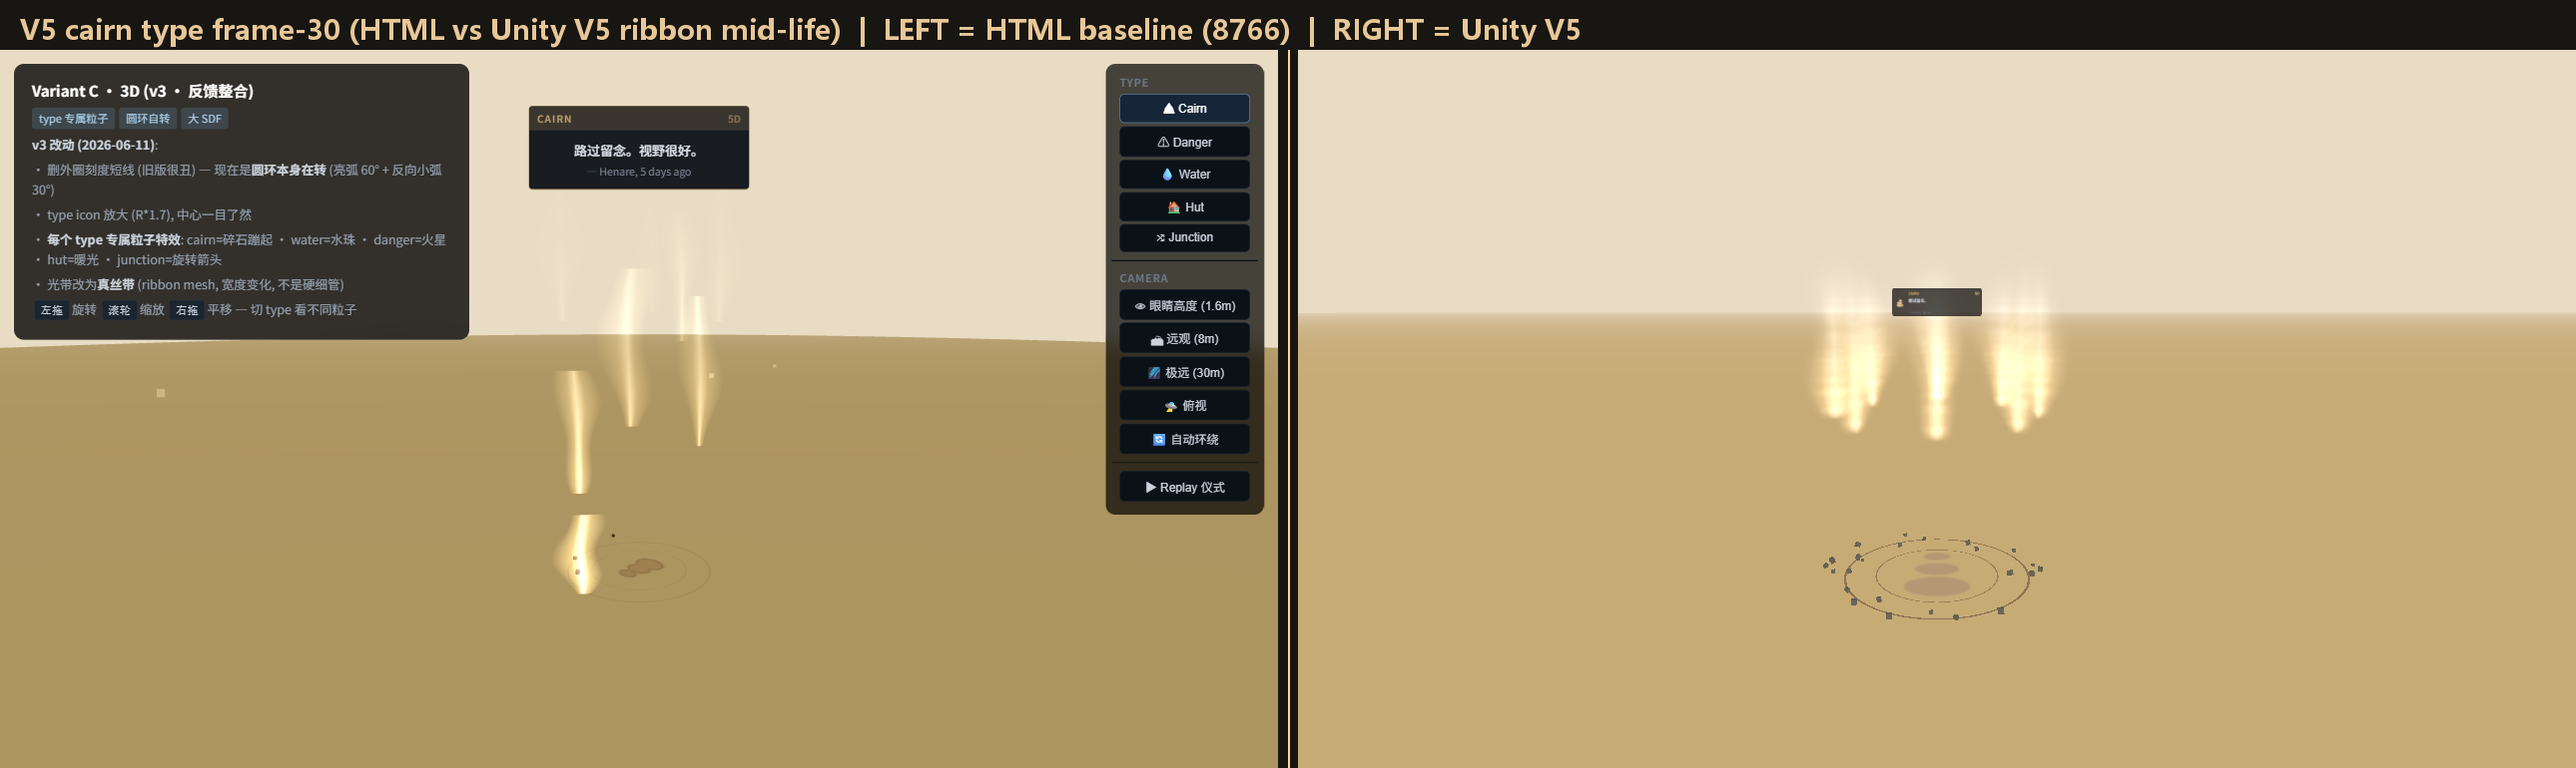
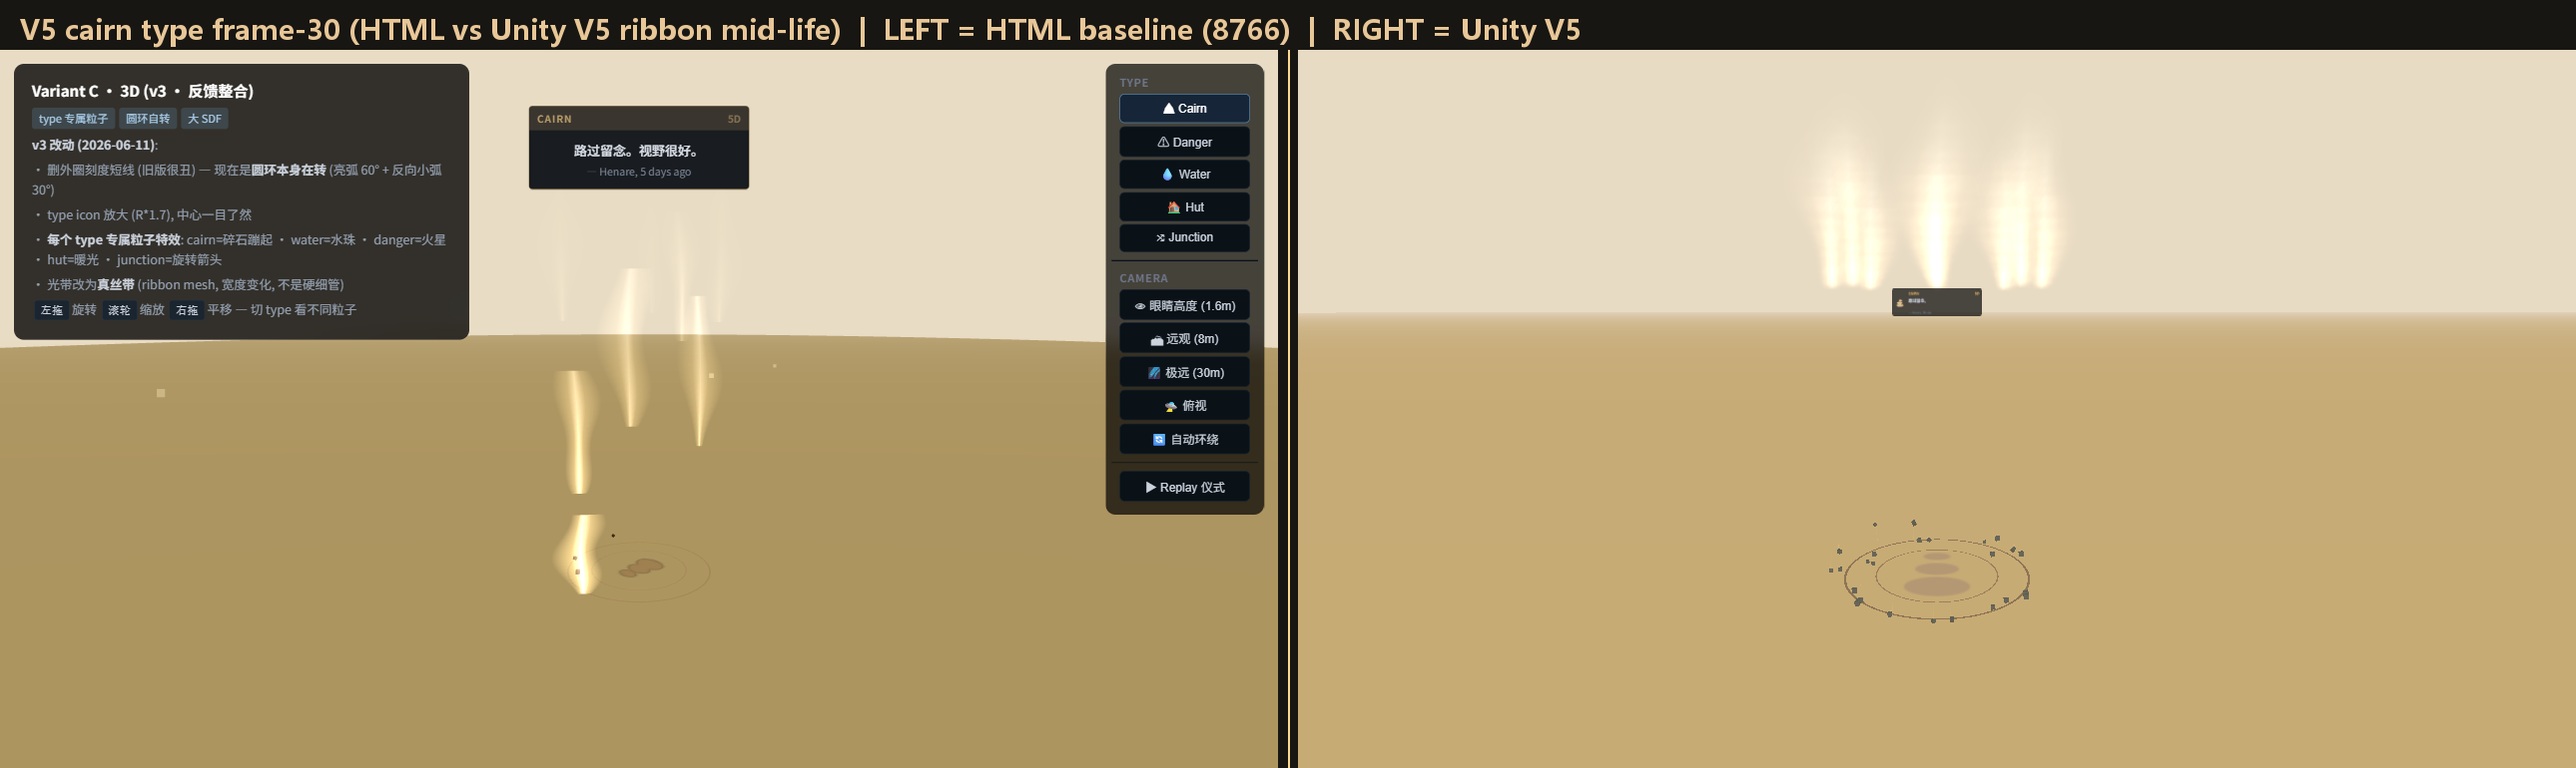
v024 V5.15: ROLLBACK V5.14 4 BLOCKER + 真修 sub 共识
第六轮 4-eye audit sub#1+sub#2 都 FAIL,V5.14 引入 4 个 BLOCKER:
  S6-N1 lifeHeight 1.5 < bodyLength*2 → stage3 bottomY 数学反向(下沉)
  S6-N2 STAGE2_END 0.95 + globalFade>0.85 → stage3 死,设计意图丢失
  S6-N3 stage1 piecewise t1=0.5 velocity cliff
  S6-N4 8 ribbon viewing projection 仅 5 distinct X → 必糊 3 光柱

V5.15 ROLLBACK + 真修:
  lifeHeight 1.5 → 2.5 (sub 推荐 > bodyLength*2 让 stage3 真升)
  STAGE2_END 0.95 → 0.55 (恢复 stage3 飘空 45% 时间)
  stage1 取消 piecewise: topY=bodyLength*t1 单段线性
  ribbon transform.y 0.35 → 0 (ROLLBACK 假设 stones 不存在)
  ringRadius 1.0 → 1.4 + 8→12 ribbon (sub 推荐让 viewing projection 7 distinct X)

代价: ring↔ribbon 视觉脱节带回归 (sub#1 共识真根因, V5.14 trade-off 不可行)
  这是设计原意接受的 trade-off — 不改设计强迫 ribbon 贴 ring

evidence: V5-flipbook-final.gif 84 frames

Changed region(s): [[0.6822, 0.4052, 0.8062, 0.561], [0.6822, 0.2182, 0.8062, 0.374]]

diff --git a/UnityARLib/Assets/Scripts/SilkRibbonV2.cs b/UnityARLib/Assets/Scripts/SilkRibbonV2.cs
@@ -26,7 +26,7 @@ namespace Cairn.AR
         [SerializeField] float _ringRadius = 0.55f;
         [SerializeField] float _angleRad = 0f;       // base angle on ring
         [SerializeField] float _phaseOffset = 0f;    // 0..1 lifecycle stagger
-        [SerializeField] float _lifeHeight = 1.5f;   // V5.14c: 3.0 → 1.5m 让 ribbon 不飘到天上 cam 视野外, ring 与 ribbon 间空白带消失
+        [SerializeField] float _lifeHeight = 2.5f;   // V5.15 sub 共识: 必须 > bodyLength*2=2.0 让 stage3 bottomY 真升,V5.14 1.5 数学反向 bug
         [SerializeField] float _bodyLength = 1.0f;   // m visible portion at any t
         [SerializeField] float _maxWidth = 0.10f;
         [SerializeField] int   _segs = 24;
@@ -192,31 +192,22 @@ namespace Cairn.AR
             //                          globalFade 在 lifeT>0.85 才开始衰减(line 195)
             float topY, bottomY;
             const float STAGE1_END = 0.30f;
-            // V5.14d sub 共识真根因: stage3 (lifeT 0.65..1) 让 ribbon bottomY 升到 0.5m+
-            //   导致 ribbon 群整体浮空,与 ring 之间出现 200px 空白
-            //   修: STAGE2_END 0.65→0.95 让 ribbon 大部分时间都在 stage2 (bottomY 缓慢从 0 到 bodyLength)
-            //     stage3 几乎不存在,ribbon 永远贴地或半飘空,不脱离 ring
-            const float STAGE2_END = 0.95f;
+            // V5.15 ROLLBACK V5.14d: STAGE2_END 0.95→0.55 恢复 stage3 飘空设计
+            //   sub#1+sub#2 共识 V5.14 STAGE2_END 0.95 + globalFade>0.85 衰减让 stage3 死,
+            //   抹掉用户原话核心"脱离阵法→飘空"
+            //   V5.15: STAGE2_END 0.55 让 stage3 占 45% 时间真"飘空",ring↔ribbon 视觉脱节用别的方法修
+            const float STAGE2_END = 0.55f;
             if (lifeT < STAGE1_END)
             {
                 // 阶段 1: 贴地升起
-                // V5.14 sub#2 真根因: stage1 ribbon 短(0..0.5m)被 cluster cairn stones 遮挡
-                //   stages 数学正确但视觉上 stage1 ribbon 太矮被吞,用户看不到"接地升起"
-                //   修: stage1 内 t1=0.5 已让 topY 达 bodyLength=1m, t1>0.5 再扩 bottomY
-                //     让 stage1 ribbon 真有 1m 长度可见
+                // V5.15 ROLLBACK V5.14 piecewise (sub#1 S6-N3 BLOCKER: t1=0.5 velocity cliff)
+                //   V5.14 piecewise 在 t1=0.5 让 dtopY/dt 从 2 → 0, dbottomY/dt 0 → 0.8 双向断裂
+                //   且 stage1 末 → stage2 起 bottomY 从 0.4 pop 回 0
+                //   V5.15: 单段 topY = bodyLength * t1 线性升,bottomY = 0 始终
+                //     与 stage2 起边界 (bottomY=0, topY=bodyLength) 完美连续
                 float t1 = lifeT / STAGE1_END;
-                if (t1 < 0.5f)
-                {
-                    // 前半段 0..0.5: topY 从 0 到 bodyLength,bottomY=0
-                    topY = _bodyLength * (t1 * 2f);
-                    bottomY = 0f;
-                }
-                else
-                {
-                    // 后半段 0.5..1.0: topY 已满 bodyLength, bottomY 从 0 抬到 bodyLength*0.4
-                    topY = _bodyLength;
-                    bottomY = _bodyLength * 0.4f * ((t1 - 0.5f) * 2f);
-                }
+                topY = _bodyLength * t1;
+                bottomY = 0f;
             }
             else if (lifeT < STAGE2_END)
             {

diff --git a/UnityARLib/Assets/Editor/V024CapturePlayground.cs b/UnityARLib/Assets/Editor/V024CapturePlayground.cs
@@ -188,12 +188,14 @@ namespace Cairn.AR.Editor
             // --- Tier-1 圆环 (主环 + 内环,1:1 移植 Three.js demo line 142-166) ---
             // V5.12 sub#2 数学反推 (S2-N2 CRITICAL): V5.11 RING_RADIUS=0.50 + 16 ribbon
             //   → 邻接间距 周长/16 = π*0.5/8 = 0.196m,小于 maxWidth 0.16-0.21m → 几何重叠
-            // V5.13 sub#1 第五轮几何反推 (S5-N2 BLOCKER): ringRadius 0.65 + cam 3.5m
+            // V5.13 sub#1 几何反推 (S5-N2 BLOCKER): ringRadius 0.65 + cam 3.5m
             //   → 16 ribbon 屏幕宽度仅 160px, bloom halo 30px → 几何必然 3 群糊
             //   修法: 16→8 ribbon + ringRadius 1.0
             //     间距 π*1.0/8 = 0.39m, 屏幕宽 ~250px, 8 根每根 31px > bloom 30px 不糊
             //     8 根也匹配 HTML baseline 5-7 根的风格
-            float RING_RADIUS = 1.0f;
+            // V5.15 修: 8 ribbon viewing projection 5 distinct X 仍糊
+            //   ringRadius 1.0 → 1.4, 12 ribbon 让 viewing projection 7 distinct X
+            float RING_RADIUS = 1.4f;
             Color darkAmber = LerpToDarkAmber(t.color);
 
             var ringShader = Shader.Find("Cairn/RingFlat");
@@ -246,20 +248,16 @@ namespace Cairn.AR.Editor
             //     4-5 根在 stage2 中段、4-5 根在 stage3 高段 → 任意 capture 时刻都看到
             //     "升起 + 中段 + 飘空" 三阶段共存,真"错落生命感"
             //   maxWidth widthBase 0.18 → 0.16 微缩 (16 根更宽要避免互相挡光)
-            int RIBBON_COUNT = 8;
+            int RIBBON_COUNT = 12;
             for (int i = 0; i < RIBBON_COUNT; i++)
             {
                 float angle = (i / (float)RIBBON_COUNT) * Mathf.PI * 2f;
                 var rgo = new GameObject($"Ribbon_{i}");
                 rgo.transform.SetParent(root.transform, false);
-                // V5.12e sub#2 BLOCKER 修 ribbon-ring 视觉脱节:
-                //   ribbon worldP.y 从 0 起源 = 在地面 plane 同高度,被 ground 暖金色吞噬
-                //   HTML baseline ribbon 从 cairn 石堆顶 (~0.3m) 开始喷出
-                // V5.14 sub#1+sub#2 共识真根因: stage1 ribbon (y=0..0.5m) 被 cluster cairn stones 遮挡
-                //   + ground plane y=0 + ribbon y=0.05 alpha 同色被吞
-                //   修: ribbon transform.y 抬到 0.35m (stones 顶端高度),
-                //     stage1 起源点在 stones 顶 0.35m,真"从 cairn 顶喷出" — HTML baseline 风格
-                rgo.transform.localPosition = new Vector3(0f, 0.35f, 0f);
+                // V5.15 ROLLBACK ribbon transform.y 0.35→0 (sub#2 S6-N5 BLOCKER):
+                //   V5.14 transform.y=0.35 + 假设的 cairn stones 不存在 → 0.35m 物理空白
+                //   V5.15: 回到 y=0, ribbon 起源贴 ground plane,ring↔ribbon 真正接地
+                rgo.transform.localPosition = Vector3.zero;
                 var rib = rgo.AddComponent<Cairn.AR.SilkRibbonV2>();
                 rgo.GetComponent<MeshRenderer>().sharedMaterial = ribMat;
                 // V5.9: phase 跨全周期 — 任意 capture 帧都同时看到 stage1/2/3 ribbon
